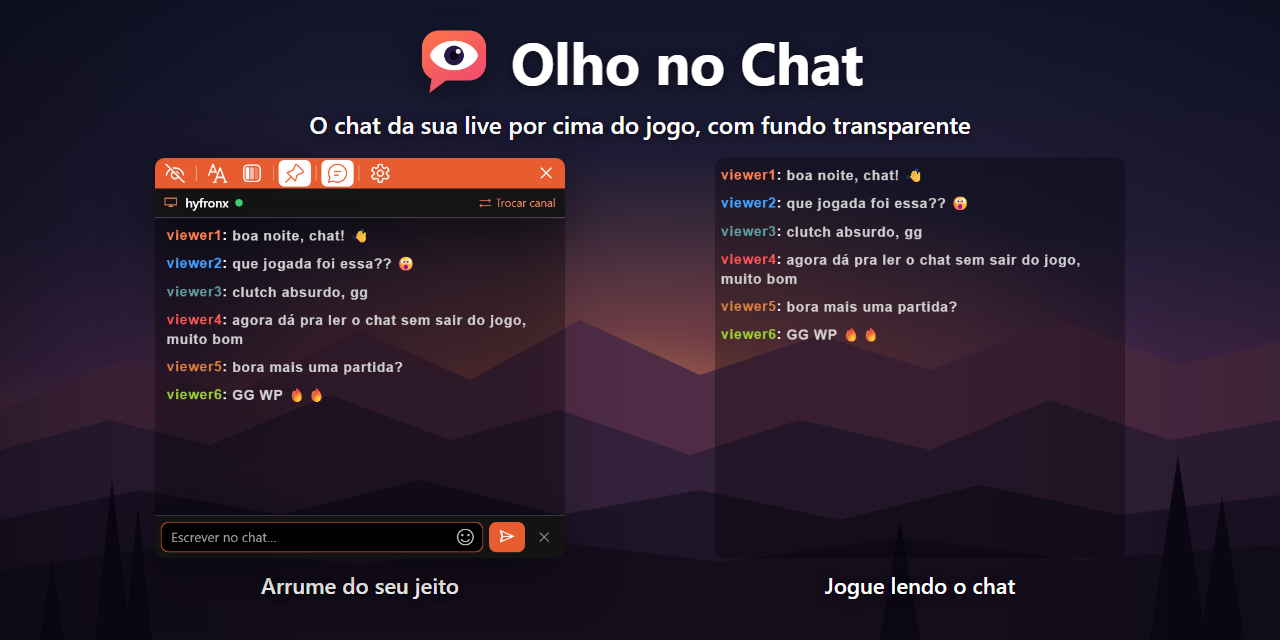
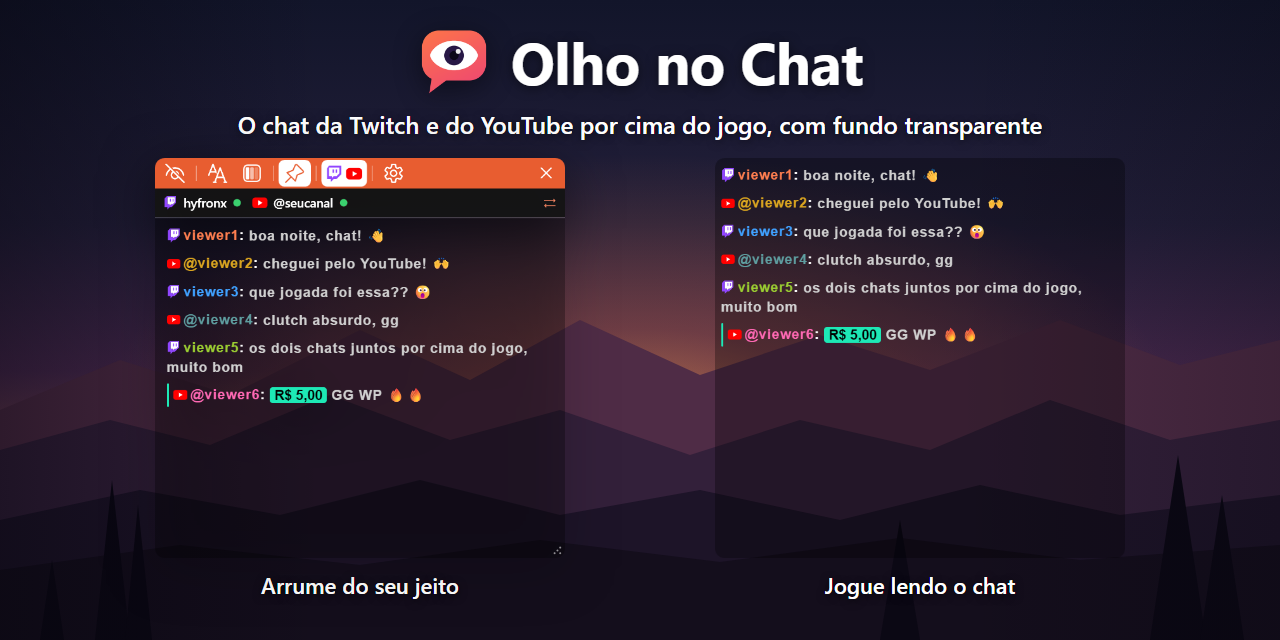
Olho no Chat 2.1.1: botão da faixa do canal se chama Conectar; nomes do YouTube com cor pelo nome inteiro; imagem de preview no modo multiplataforma

diff --git a/OlhoNoChat/browser/chat.js b/OlhoNoChat/browser/chat.js
@@ -782,6 +782,14 @@
     const YOUTUBE_ROLE_COLORS = { owner: '#FFD600', moderator: '#5E84F1', member: '#2BA640' };
     const YOUTUBE_ROLE_BADGES = { owner: 'broadcaster/1', moderator: 'moderator/1' };
 
+    // YouTube has no name colors: one of the default colors from the whole name (the first letter alone gives the
+    // same color to everyone named alike, and YouTube names are often alike)
+    function youTubeColor(login) {
+        let hash = 0;
+        for (const c of login) hash = (hash * 31 + c.codePointAt(0)) >>> 0;
+        return DEFAULT_COLORS[hash % DEFAULT_COLORS.length];
+    }
+
     function onYouTubeMessage(m) {
         const login = String(m.login || m.name || '').toLowerCase();
         const text = (m.parts || []).filter(part => typeof part === 'string').join('').trim();
@@ -792,7 +800,7 @@
             platform: 'youtube',
             login,
             name: m.name || login,
-            color: userColor(login || '?', YOUTUBE_ROLE_COLORS[m.role] || ''),
+            color: userColor(login || '?', YOUTUBE_ROLE_COLORS[m.role] || youTubeColor(login)),
             action: false,
             parts: m.parts || [],
             superchat: m.superchat || null,

diff --git a/OlhoNoChat/Janelas/Chat/FaixaDoCanal.xaml b/OlhoNoChat/Janelas/Chat/FaixaDoCanal.xaml
@@ -88,7 +88,7 @@
                          ctl:CaixaDeTexto.TextoDeExemplo="Nome do canal da Twitch" AutomationProperties.Name="Canal da Twitch"
                          Text="{Binding Texto, UpdateSourceTrigger=PropertyChanged}" PreviewKeyDown="CaixaCanal_PreviewKeyDown" />
                 <Button x:Name="botaoEntrar" Grid.Column="2" Margin="6,0,0,0" Height="32" MinWidth="0" Padding="12,0"
-                        Style="{StaticResource BotaoPrincipal}" Content="{Binding TextoDoBotao}" IsEnabled="{Binding PodeConfirmar}"
+                        Style="{StaticResource BotaoPrincipal}" Content="Conectar" IsEnabled="{Binding PodeConfirmar}"
                         Click="Entrar_Click" />
                 <Button x:Name="botaoCancelarCanal" Grid.Column="3" Margin="4,0,0,0" Width="32" Height="32" Padding="0"
                         Style="{StaticResource BotaoPlano}" HorizontalContentAlignment="Center"

diff --git a/OlhoNoChat/browser/index.html b/OlhoNoChat/browser/index.html
@@ -30,7 +30,7 @@
         <svg class="arrow" viewBox="0 0 34 44"><path class="outline" d="M28 40 C 12 34, 6 22, 6 6 M6 6 L 1 14 M6 6 L 13 12"/><path d="M28 40 C 12 34, 6 22, 6 6 M6 6 L 1 14 M6 6 L 13 12"/></svg>
         <div>
             <h1>Bem-vindo ao Olho no Chat!</h1>
-            <span id="where-channel">Digite o nome do seu canal da Twitch aqui em cima e clique em <b>Entrar no chat</b>.</span>
+            <span id="where-channel">Digite o nome do seu canal da Twitch aqui em cima e clique em <b>Conectar</b>.</span>
             <span id="where-settings">Clique na engrenagem <span class="key">&#9881;</span> na barra laranja aqui em cima para abrir as <b>Configurações</b> e escolha o chat que quer ver.</span>
         </div>
     </div>

diff --git a/OlhoNoChat/Janelas/Chat/LogicaFaixaDoCanal.cs b/OlhoNoChat/Janelas/Chat/LogicaFaixaDoCanal.cs
@@ -76,8 +76,6 @@ public sealed partial class LogicaFaixaDoCanal : ObservableObject
     /// <summary>A caixa do nome está aberta: sempre sem canal, ou quando a pessoa clicou na faixa.</summary>
     public bool EditorAberto => !TemCanal || _editorPedido;
 
-    public string TextoDoBotao => TemCanal ? "Trocar" : "Entrar no chat";
-
     [ObservableProperty]
     private string _texto;
 
@@ -205,7 +203,7 @@ public sealed partial class LogicaFaixaDoCanal : ObservableObject
             MostrarDica(null);
     }
 
-    /// <summary>"Entrar no chat" / "Trocar", ou Enter na caixa.</summary>
+    /// <summary>"Conectar", ou Enter na caixa.</summary>
     public async Task ConfirmarAsync()
     {
         if (Procurando)
@@ -306,7 +304,6 @@ public sealed partial class LogicaFaixaDoCanal : ObservableObject
     {
         OnPropertyChanged(nameof(TemCanal));
         OnPropertyChanged(nameof(EditorAberto));
-        OnPropertyChanged(nameof(TextoDoBotao));
         OnPropertyChanged(nameof(CanalSalvo));
         OnPropertyChanged(nameof(ComYouTube));
         OnPropertyChanged(nameof(YouTubeSalvo));

diff --git a/OlhoNoChat.Testes/Janelas/LogicaFaixaDoCanalTestes.cs b/OlhoNoChat.Testes/Janelas/LogicaFaixaDoCanalTestes.cs
@@ -40,7 +40,6 @@ public class LogicaFaixaDoCanalTestes
 
         Assert.False(logica.EditorAberto);
         Assert.Equal("hyfronx", logica.CanalSalvo);
-        Assert.Equal("Trocar", logica.TextoDoBotao);
         Assert.Equal("Clique para trocar de canal.", logica.DicaDaFaixa);
     }
 
@@ -52,7 +51,6 @@ public class LogicaFaixaDoCanalTestes
 
         Assert.True(logica.EditorAberto);
         Assert.False(logica.TemCanal);
-        Assert.Equal("Entrar no chat", logica.TextoDoBotao);
         logica.Esc();
         Assert.True(logica.EditorAberto); // sem canal, o Esc só volta a dica
     }
@@ -199,7 +197,7 @@ public class LogicaFaixaDoCanalTestes
 
         Assert.Equal([""], _trocas);
         Assert.True(logica.EditorAberto);
-        Assert.Equal("Entrar no chat", logica.TextoDoBotao);
+        Assert.False(logica.TemCanal);
     }
 
     [Fact]

diff --git a/README.md b/README.md
@@ -7,7 +7,7 @@ Mostra o chat da sua live por cima do jogo, com fundo transparente. Feito para q
 
 1. Baixe o `OlhoNoChat-win-Setup.exe` na página de [versões](https://github.com/hyfronx/olho-no-chat/releases/latest).
 2. Abra o instalador. Se aparecer o aviso "O Windows protegeu o computador", clique em **Mais informações** e depois em **Executar assim mesmo**. Isso só acontece na primeira vez.
-3. Digite o nome do seu canal na faixa em cima do chat e clique em **Entrar no chat**.
+3. Digite o nome do seu canal na faixa em cima do chat e clique em **Conectar**.
 
 ## Como usar
 
